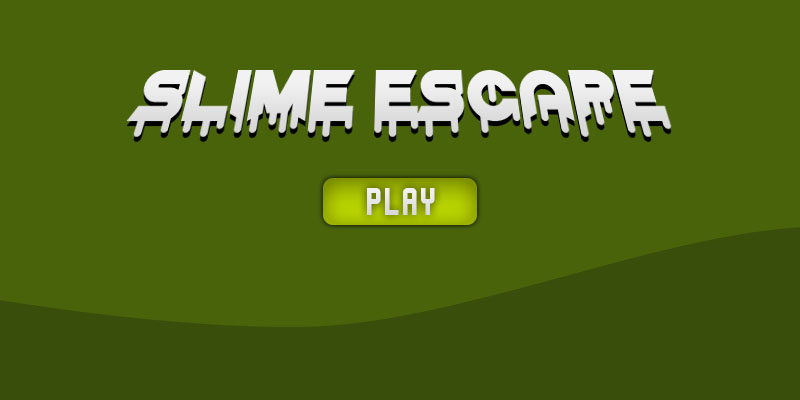
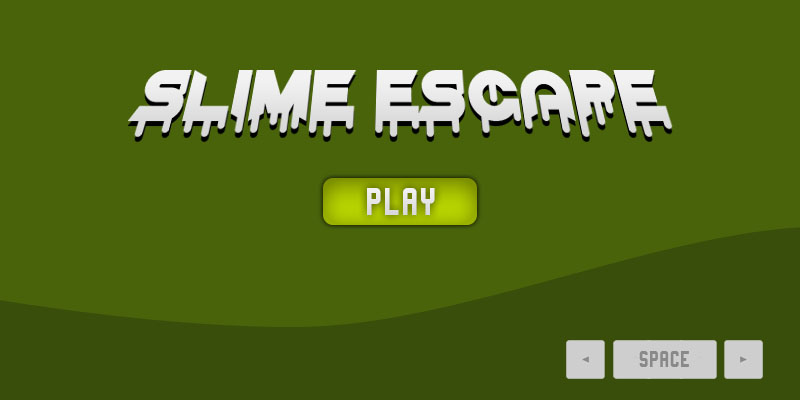
New start and ending screen

diff --git a/main.py b/main.py
@@ -209,10 +209,9 @@ class Game:
     def show_go_screen(self):
         # game over/continue
         self.screen.fill(BLUE)
-        self.draw_text("Game over", 48, WHITE, WIDTH/2, HEIGHT / 4)
-        self.draw_text("Your score: " + str(self.score), 25, WHITE, WIDTH/2, 20
-                       )
-        self.draw_text("Press a key to continue playing", 22, WHITE, WIDTH/2, HEIGHT * 3/4)
+        gameover = pg.image.load(os.path.join(img_folder, "gameover.jpg"))
+        self.screen.blit(gameover, (0,0))
+        self.draw_text("Your score: " + str(self.score), 25, WHITE, WIDTH/2, 20)
         pg.display.flip()
         self.wait_for_key()
         
